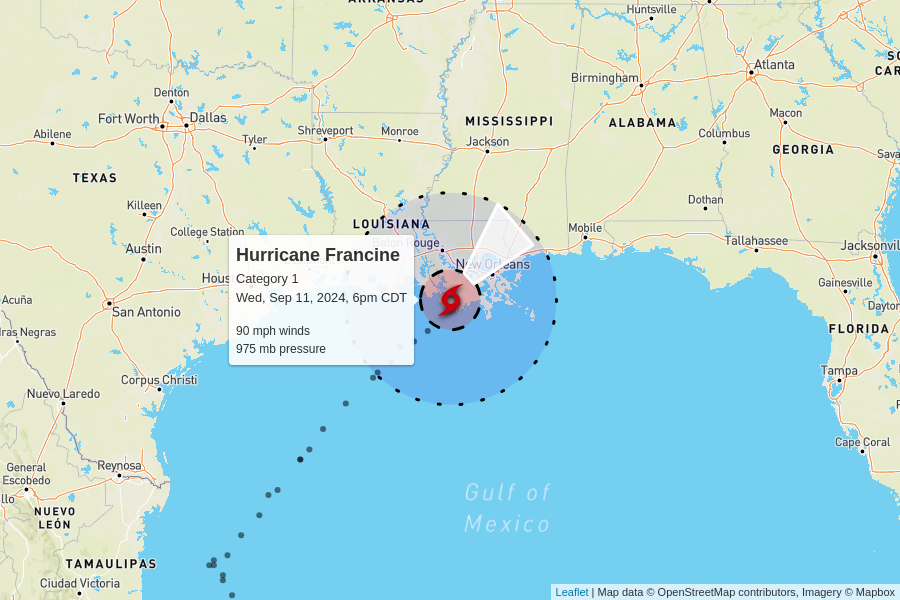
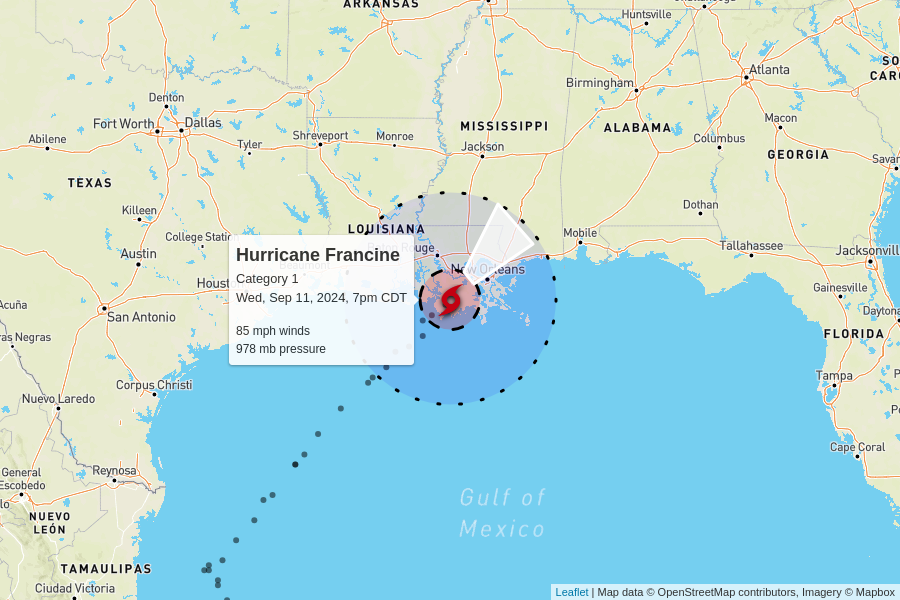
automatic update

diff --git a/docs/index.html b/docs/index.html
@@ -104,7 +104,7 @@
         <td colspan="6" class="storm category-1" >
           <h2>
             Hurricane Francine - Category 1
-            <p class="updated">last updated <span data-time>2024-09-11T23:00:00.000Z</span></p>
+            <p class="updated">last updated <span data-time>2024-09-12T00:00:00.000Z</span></p>
           </h2>
         </td>
       </tr>
@@ -119,8 +119,8 @@
       </tr>
       <tr>
         <td class="spacer"></td>
-        <td>90 mph<br>-10 mph since last update</td>
-        <td>975 mb<br>+3 mb since last update</td>
+        <td>85 mph<br>-5 mph since last update</td>
+        <td>978 mb<br>+3 mb since last update</td>
         <td>
           17 mph to the northeast
           <br/>
